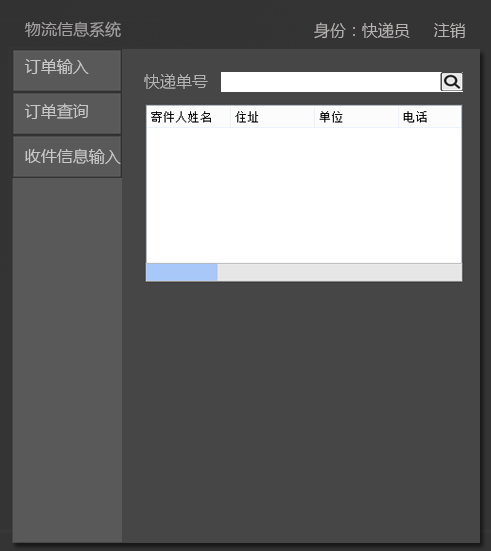
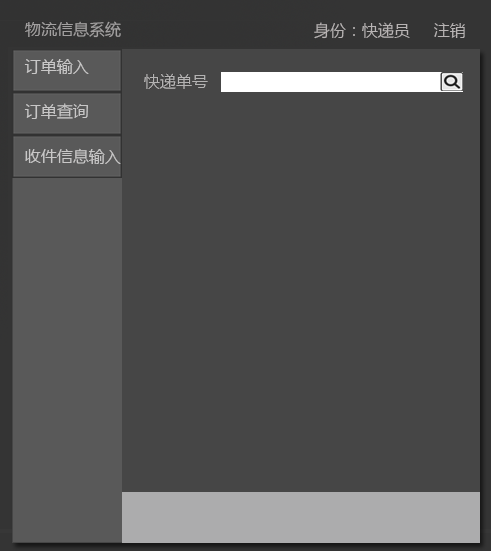
backgrounds

Changed region(s): [[0.2749, 0.1851, 0.947, 0.5245], [0.2444, 0.8947, 0.9776, 0.9873]]

diff --git a/ExpressSystem/client/src/main/java/nju/sec/yz/ExpressSystem/presentation/deliverui/DeliverOrderInUi.java b/ExpressSystem/client/src/main/java/nju/sec/yz/ExpressSystem/presentation/deliverui/DeliverOrderInUi.java
@@ -21,6 +21,7 @@ import nju.sec.yz.ExpressSystem.blservice.deliverBlService.DeliverBlService;
 import nju.sec.yz.ExpressSystem.common.DeliveryType;
 import nju.sec.yz.ExpressSystem.common.GoodInformation;
 import nju.sec.yz.ExpressSystem.common.PackType;
+import nju.sec.yz.ExpressSystem.common.Result;
 import nju.sec.yz.ExpressSystem.common.ResultMessage;
 import nju.sec.yz.ExpressSystem.common.SendInformation;
 import nju.sec.yz.ExpressSystem.common.ToAndFromInformation;
@@ -107,10 +108,10 @@ public class DeliverOrderInUi extends JPanel {
 				//判断输入的信息是否正确
 				
 				//失败
-				if(deliverBlService.deliverReceipt(sendsheet)==ResultMessage.FAIL){
+				if(deliverBlService.deliverReceipt(sendsheet).getResult()==Result.FAIL){
 					warning=new JLabel();
-					warning.setText("输入信息错误");
-					warning.setBounds(250,490,100,30);
+					warning.setText(deliverBlService.deliverReceipt(sendsheet).getMessage());
+					warning.setBounds(200,490,190,30);
 					warning.setFont(new Font("Dialog",1,15));
 					warning.setForeground(Color.red);
 					add(warning);

diff --git a/ExpressSystem/client/src/main/java/nju/sec/yz/ExpressSystem/presentation/deliverui/DeliverOrderSearchUi.java b/ExpressSystem/client/src/main/java/nju/sec/yz/ExpressSystem/presentation/deliverui/DeliverOrderSearchUi.java
@@ -25,7 +25,7 @@ public class DeliverOrderSearchUi extends JPanel {
 	DeliverBlService deliver=new DeliverController();
 	
 		// 确定选项
-		private JButton confirmButton;
+		private JLabel confirmButton;
 		
 		
 		private JTextField searchnumber;
@@ -50,11 +50,9 @@ public class DeliverOrderSearchUi extends JPanel {
 			/*
 			 * 确定
 			 */
-			ImageIcon cinfirmIcon = new ImageIcon("graphic/deliver/button/confirm.png");
-			confirmButton = new JButton(cinfirmIcon);
-			confirmButton.setBounds(378, 456, 76, 27);
+			confirmButton = new JLabel();
+			confirmButton.setBounds(441, 72, 23, 21);
 			add(confirmButton);
-			setVisible(true);
 
 			confirmButton.addMouseListener(new MouseAdapter() {
 				public void mouseClicked(MouseEvent e) {
@@ -88,7 +86,7 @@ public class DeliverOrderSearchUi extends JPanel {
 			 */
 
 			searchnumber = new JTextField();
-			searchnumber.setBounds(185, 87, 58, 15);
+			searchnumber.setBounds(221, 72, 219, 20);
 			add(searchnumber);
 			
 			

diff --git a/ExpressSystem/client/src/main/java/nju/sec/yz/ExpressSystem/presentation/deliverui/DeliverReceiveInUi.java b/ExpressSystem/client/src/main/java/nju/sec/yz/ExpressSystem/presentation/deliverui/DeliverReceiveInUi.java
@@ -1,5 +1,42 @@
 package nju.sec.yz.ExpressSystem.presentation.deliverui;
 
-public class DeliverReceiveInUi {
+import java.awt.Graphics;
+import java.awt.Image;
 
+import javax.swing.ImageIcon;
+import javax.swing.JPanel;
+
+import nju.sec.yz.ExpressSystem.bl.deliverbl.DeliverController;
+import nju.sec.yz.ExpressSystem.blservice.deliverBlService.DeliverBlService;
+import nju.sec.yz.ExpressSystem.presentation.controlerui.ClientControler;
+
+public class DeliverReceiveInUi extends JPanel{
+
+	DeliverBlService deliverservice=new DeliverController();
+	
+	
+	
+	public DeliverReceiveInUi(ClientControler controler) {
+		iniDeliverReceiveIn();
+		ButtonComponents bc=new ButtonComponents(controler, this);
+		
+	}
+
+	private void iniDeliverReceiveIn() {
+		
+	}
+	
+	
+
+	@Override
+	public void paintComponent(Graphics g) {
+		Image img01 = new ImageIcon("graphic/deliver/background/background04.png").getImage();
+
+		g.drawImage(img01, 0, 0, 490, 550, null);
+
+	}
+
+	
+	
+	
 }

diff --git a/ExpressSystem/client/src/main/java/nju/sec/yz/ExpressSystem/vo/OrderVO.java b/ExpressSystem/client/src/main/java/nju/sec/yz/ExpressSystem/vo/OrderVO.java
@@ -11,7 +11,7 @@ import nju.sec.yz.ExpressSystem.common.OrderInformation;
  *　TODO 
  */
 public class OrderVO {
-	private OrderInformation orderInformation;
+	private OrderInformation orderInformation=null;
 
 	public OrderInformation getOrderInformation() {
 		return orderInformation;
